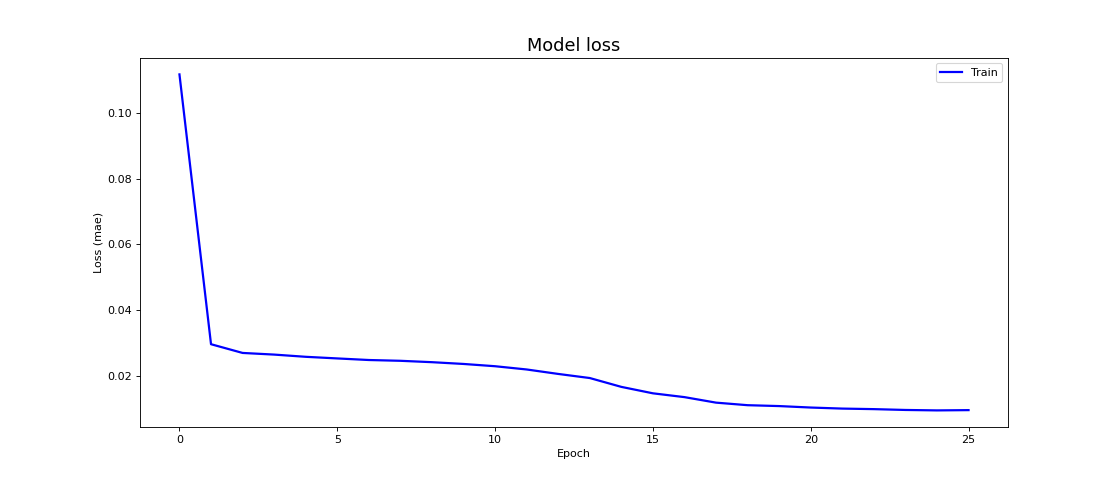
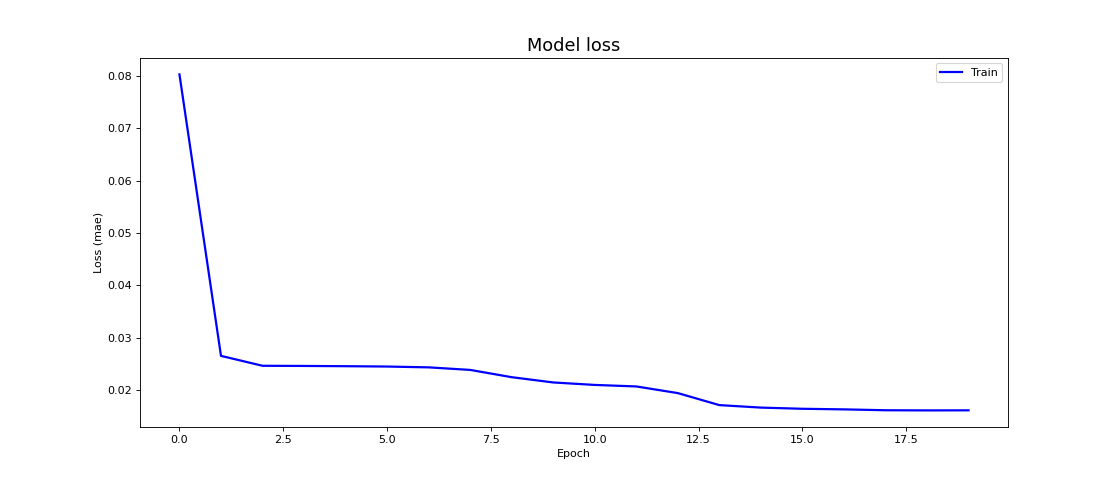
Chang | Iso+Auto and result.xlsx

diff --git a/model/Iso_Auto.py b/model/Iso_Auto.py
@@ -2,42 +2,97 @@ import keras
 from keras import regularizers
 from keras.models import  Model, Sequential
 from keras.layers import Dense, Input, BatchNormalization
+from keras.callbacks import EarlyStopping
 from sklearn.ensemble import IsolationForest
+
+import pandas as pd
 import numpy as np
+import matplotlib.pyplot as plt
+import seaborn as sns
 
-def Iso_Auto(train_dataset):
-  clf = IsolationForest(random_state = 42, contamination = 0.3)
-  clf.fit(train_dataset)
-  pred = clf.predict(train_dataset)
 
-  p1 = train_dataset[pred==1]
-  p2 = train_dataset[pred==-1]
+def iso_auto(train_dataset,test_dataset):
+	clf = IsolationForest(random_state = 42, contamination = 0.3)
+	clf.fit(train_dataset['x'])
+	pred = clf.predict(train_dataset['x'])
 
-  # NN Autoencoder model.
-  input_dim = p1.shape[1]
-  input = Input(shape=(input_dim, ))
-  encode = Dense(input_dim//3*2, activation='relu',kernel_regularizer=regularizers.l2(0.01))(input)
-  encode = BatchNormalization()(encode)
-  encode = Dense(input_dim//3, activation='relu',kernel_regularizer=regularizers.l2(0.01))(encode)
-  encode = BatchNormalization()(encode)
+	p1 = train_dataset['x'][pred==1]
+	p2 = train_dataset['x'][pred==-1]
 
-  decode = Dense(input_dim//3, activation='relu')(encode)
-  decode = BatchNormalization()(decode)
-  decode = Dense(input_dim//3*2, activation='relu')(decode)
-  decode = BatchNormalization()(decode)
-  decode = Dense(input_dim, activation='sigmoid')(decode)
+	# NN Autoencoder model.
+	input_dim = p1.shape[1]
+	input = Input(shape=(input_dim, ))
+	encode = Dense(input_dim//3*2, activation='relu',kernel_regularizer=regularizers.l2(0.01))(input)
+	encode = BatchNormalization()(encode)
+	encode = Dense(input_dim//3, activation='relu',kernel_regularizer=regularizers.l2(0.01))(encode)
+	encode = BatchNormalization()(encode)
 
-  autoencoder = Model(input, decode)
+	decode = Dense(input_dim//3, activation='relu')(encode)
+	decode = BatchNormalization()(decode)
+	decode = Dense(input_dim//3*2, activation='relu')(decode)
+	decode = BatchNormalization()(decode)
+	decode = Dense(input_dim, activation='sigmoid')(decode)
 
-  autoencoder.compile(optimizer='adam',
-              loss='mse',
-              metrics=['accuracy'])
+	autoencoder = Model(input, decode)
 
-  # Train model.
-  history = autoencoder.fit(p1, p1,
-          epochs=100,
-          batch_size=128,
-          shuffle=True
-          )
+	early_stopping = EarlyStopping(monitor='loss', mode='min')
 
-  return max(history.history['accuracy'])
+	autoencoder.compile(optimizer='adam',
+											loss='mse',
+											metrics=['accuracy'])
+
+	# Train model.
+	history = autoencoder.fit(p1, p1,
+					epochs=100,
+					batch_size=128,
+					shuffle=True,
+					callbacks = [early_stopping]
+					)
+
+	# plot the training losses
+	fig, ax = plt.subplots(figsize=(14, 6), dpi=80)
+	ax.plot(history.history['loss'], 'b', label='Train', linewidth=2)
+	ax.set_title('Model loss', fontsize=16)
+	ax.set_ylabel('Loss (mae)')
+	ax.set_xlabel('Epoch')
+	ax.legend(loc='upper right')
+	plt.savefig('./result/iso_auto_loss.png')
+
+	# plot the loss distribution of the training set
+	X_pred = autoencoder.predict(train_dataset['x'])
+	X_pred = pd.DataFrame(X_pred)
+
+	train_scored = pd.DataFrame()
+	Xtrain = train_dataset['x']
+	train_scored['Loss_mae'] = np.mean(np.abs(X_pred-Xtrain), axis = 1)
+	plt.figure(figsize=(16,9), dpi=80)
+	plt.title('Loss Distribution', fontsize=16)
+	sns.distplot(train_scored['Loss_mae'], bins = 20, kde= True, color = 'blue');
+	plt.xlim([0.0,.5])
+	plt.savefig('./result/iso_auto_loss_mae.png')
+
+	# calculate the same metrics for the training set 
+	# and merge all data in a single dataframe for plotting
+	X_pred_train = autoencoder.predict(train_dataset['x'])
+	X_pred_train = pd.DataFrame(X_pred_train)
+
+	scored_train = pd.DataFrame()
+	scored_train['Loss_mae'] = np.mean(np.abs(X_pred_train-Xtrain), axis = 1)
+	scored_train['Threshold'] = scored_train.quantile(0.9)[0]
+	scored_train['Anomaly'] = scored_train['Loss_mae'] > scored_train['Threshold']
+
+	# calculate the loss on the test set
+	X_pred = autoencoder.predict(test_dataset['x'])
+	X_pred = pd.DataFrame(X_pred)
+
+	scored = pd.DataFrame()
+	Xtest = test_dataset['x']
+	scored['Loss_mae'] = np.mean(np.abs(X_pred-Xtest), axis = 1)
+	scored['Threshold'] =  scored_train.quantile(0.9)[0]
+	scored['Anomaly'] = scored['Loss_mae'] > scored['Threshold']
+	scored.head()
+
+	scored = pd.concat([scored_train, scored])
+	ture_ = pd.Series(train_dataset['y']).append(pd.Series(test_dataset['y']))
+
+	return ture_,scored['Anomaly']

diff --git a/compare.py b/compare.py
@@ -42,15 +42,24 @@ train_dataset['x'] = scaler.fit_transform(train_dataset['x'])
 test_dataset['x'] = scaler.transform(test_dataset['x'])
 
 # train
+print('== NN_AUtoencoder Train ==')
+(y_, y_pred) = nn_autoencoder(train_dataset,test_dataset)
+result['nn_autoencoder'] =  [confusion_matrix(y_, y_pred), accuracy_score(y_, y_pred) , f1_score(y_, y_pred)]
 
-# (y_, y_pred) = nn_autoencoder(train_dataset,test_dataset)
-# result['nn_autoencoder'] =  [confusion_matrix(y_, y_pred), accuracy_score(y_, y_pred) , f1_score(y_, y_pred)]
-# (y_, y_pred) = lstm_autoencoder(train_dataset,test_dataset)
-# result['lstm_autoencoder'] =  [confusion_matrix(y_, y_pred), accuracy_score(y_, y_pred) , f1_score(y_, y_pred)]
-(y_, y_pred) = iso_2auto(train_dataset,test_dataset)
+print('== LSTM_AUtoencoder Train ==')
+(y_, y_pred) = lstm_autoencoder(train_dataset,test_dataset)
 result['lstm_autoencoder'] =  [confusion_matrix(y_, y_pred), accuracy_score(y_, y_pred) , f1_score(y_, y_pred)]
-# (y_, y_pred) = lstm_autoencoder(train_dataset,test_dataset)
-# result['lstm_autoencoder'] =  [confusion_matrix(y_, y_pred), accuracy_score(y_, y_pred) , f1_score(y_, y_pred)]
+
+print('== Iso_2Auto Train ==')
+(y_, y_pred) = iso_2auto(train_dataset,test_dataset)
+result['Iso_2Auto'] =  [confusion_matrix(y_, y_pred), accuracy_score(y_, y_pred) , f1_score(y_, y_pred)]
+
+print('== Iso_Auto Train ==')
+(y_, y_pred) = iso_auto(train_dataset,test_dataset)
+result['Iso_Auto'] =  [confusion_matrix(y_, y_pred), accuracy_score(y_, y_pred) , f1_score(y_, y_pred)]
 
 print(result)
 print(pd.DataFrame(result, index = ['confusion_matrix','accuracy_score','f1_score']))
+
+accuracy_df = pd.DataFrame(result, index = ['confusion_matrix','accuracy_score','f1_score'])
+accuracy_df.to_excel('./result/score.xlsx')

diff --git a/model/Iso_2Auto.py b/model/Iso_2Auto.py
@@ -99,7 +99,7 @@ def iso_2auto(train_dataset,test_dataset):
   plt.title('Loss Distribution', fontsize=16)
   sns.distplot(train_scored['Loss_mae'], bins = 20, kde= True, color = 'blue');
   plt.xlim([0.0,.5])
-  plt.savefig('./result/2auto+iso_mae.png')
+  plt.savefig('./result/2auto+iso_loss_mae.png')
   
   # calculate the same metrics for the training set 
   # and merge all data in a single dataframe for plotting
